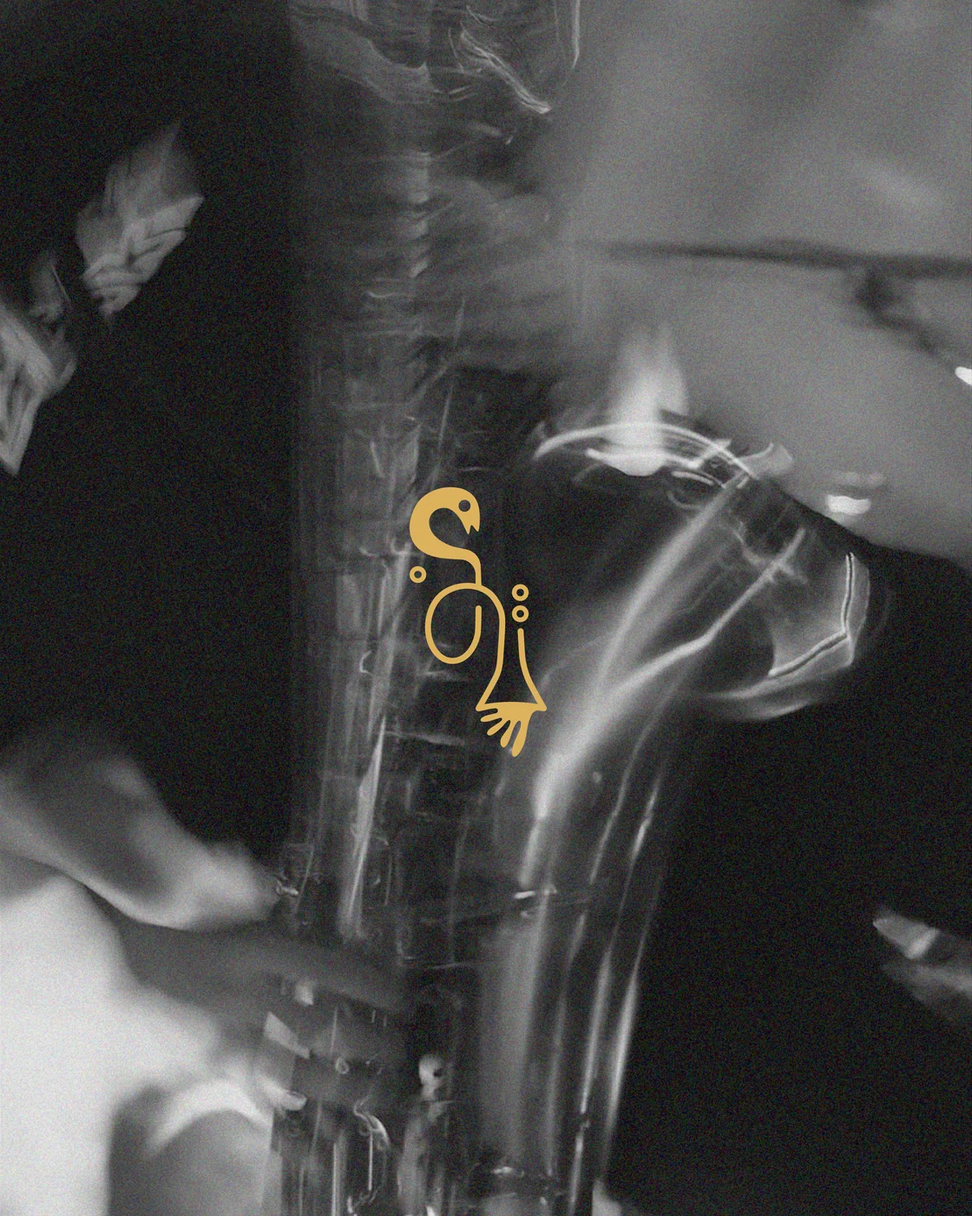
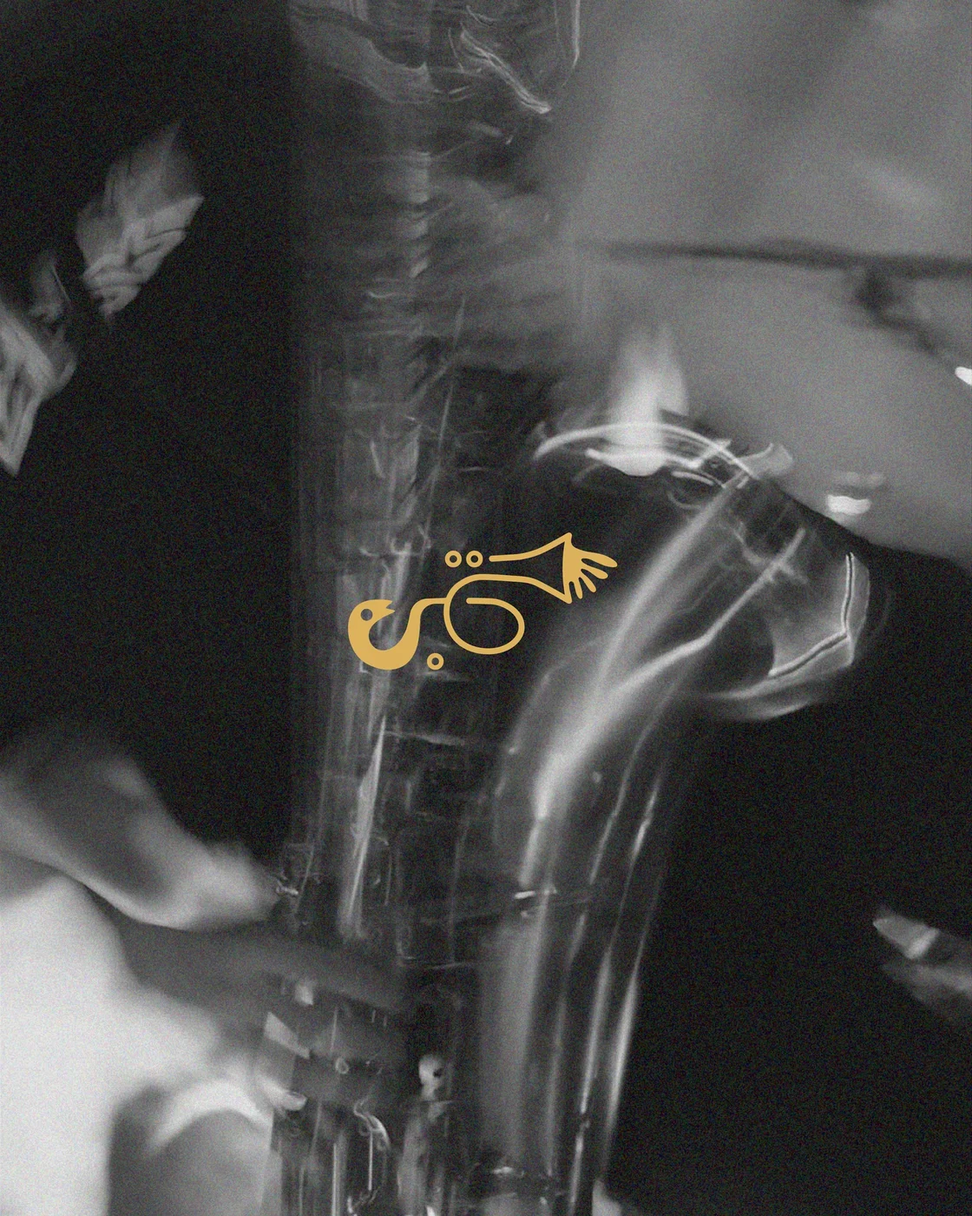
update

Changed region(s): [[0.3438, 0.3993, 0.625, 0.6143]]

diff --git a/work/adjuah.html b/work/adjuah.html
@@ -8,7 +8,7 @@
   <link rel="apple-touch-icon" href="../assets/img/apple-touch-icon.png">
   <title>Chief Adjuah — Lucía Tapia</title>
   <meta name="description" content="Chief Xian aTunde Adjuah, formerly known as Christian Scott, is a New Orleans trumpeter, composer and instrument designer. He builds his own instrumen">
-  <link rel="stylesheet" href="../assets/css/style.css?v=11031700">
+  <link rel="stylesheet" href="../assets/css/style.css?v=11042000">
 </head>
 <body class="page-project">
 
@@ -22,17 +22,27 @@
     </nav>
   </header>
 
-  <main class="pj" id="top">
+  <main class="pj pj--tight" id="top">
     <div class="pj__sheet">
-    <section class="pj__cover"><figure class="pj__frame pj__frame--cover "><img src="../assets/img/work/adjuah/cover.webp?v=10051010" alt="" width="1920" height="2400" loading="lazy"></figure></section>
+    <section class="pj__cover"><figure class="pj__frame pj__frame--cover "><img src="../assets/img/work/adjuah/hero-image.webp?v=11041200" alt="" width="2400" height="1500" loading="lazy"></figure></section>
     <header class="pj__head"><a class="pj__arrow" href="../work.html" aria-label="Back to all work">←</a><div><h1 class="pj__title">Chief Adjuah</h1><p class="pj__one">A self-initiated identity concept for jazz artist Christian Scott aTunde Adjuah.</p></div></header>
-    <section class="pj__row pj__row--pair pj__row--text"><div class="pj__intro"><div class="pj__lead"><p>Chief Xian aTunde Adjuah, formerly known as Christian Scott, is a New Orleans trumpeter, composer and instrument designer. He builds his own instruments, coined the term Stretch Music for his genre-blind fusion of jazz, trap and West African rhythm, and is a hereditary Big Chief of the Xodokan Nation, one of New Orleans’ Black Masking Indian traditions.</p><p>His work is both ancestral and futuristic. This is a self-initiated identity concept, an exercise in translating such an interesting personality into a complete visual system. It isn’t client work.</p></div><div class="pj__meta"><div class="pj__meta-col pj__meta-col--name"><p>Chief Adjuah</p><p>2026 · Spec work</p></div><div class="pj__meta-col"><p class="pj__meta-k">Role</p><p class="pj__meta-v">Branding &amp; design</p></div><div class="pj__meta-col"><p class="pj__meta-k">Deliverables</p><p class="pj__meta-v">Wordmark<br>Custom type<br>Pattern<br>Applications</p></div></div></div><figure class="pj__frame pj__frame--cover "><img src="../assets/img/work/adjuah/poster.webp?v=10051010" alt="" width="1010" height="1242" loading="lazy"></figure></section>
+    <section class="pj__row pj__row--pair pj__row--text"><div class="pj__intro"><div class="pj__lead"><p>Chief Xian aTunde Adjuah, formerly known as Christian Scott, is a New Orleans trumpeter, composer and instrument designer. He builds his own instruments, coined the term Stretch Music for his genre-blind fusion of jazz, trap and West African rhythm, and is a hereditary Big Chief of the Xodokan Nation, one of New Orleans’ Black Masking Indian traditions.</p><p>His work is both ancestral and futuristic. This is a self-initiated identity concept, an exercise in translating such an interesting personality into a complete visual system. It isn’t client work.</p></div><div class="pj__meta"><div class="pj__meta-col pj__meta-col--name"><p>Chief Adjuah</p><p>2026 · Spec work</p></div><div class="pj__meta-col"><p class="pj__meta-k">Role</p><p class="pj__meta-v">Branding &amp; design</p></div><div class="pj__meta-col"><p class="pj__meta-k">Deliverables</p><p class="pj__meta-v">Wordmark<br>Custom type<br>Pattern<br>Applications</p></div></div></div><figure class="pj__frame pj__frame--cover cut " data-cut data-interval="1600" style="aspect-ratio:4/5"><img class="cut__slide is-on" src="../assets/img/work/adjuah/carrousel-1.webp?v=11041200" alt="" width="1600" height="2000" loading="lazy"><img class="cut__slide" src="../assets/img/work/adjuah/carrousel-2.webp?v=11041200" alt="" width="1600" height="2000" loading="lazy"><img class="cut__slide" src="../assets/img/work/adjuah/carrousel-3.webp?v=11041200" alt="" width="1600" height="2000" loading="lazy"></figure></section>
     <section class="pj__row pj__txt"><h2 class="pj__label">Insight</h2><div class="pj__body"><p>Chief Adjuah doesn’t preserve tradition, he reinvents it by combining things: trap layered over West African percussion, ceremonial suits built from thousands of beads added by hand over a year. His whole practice is fragments, assembled with intent. Once I learned this, I understood the identity had to work the same way: not one single thing, but a system built from parts, each carrying meaning of its own.</p></div></section>
+    <section class="pj__row adj__fig adj__fig--small"><img src="../assets/img/work/adjuah/color-palette.webp?v=11041700" alt="" width="1665" height="996" loading="lazy"></section>
+    <section class="pj__row pj__row--full"><figure class="pj__frame pj__frame--cover " style="aspect-ratio:2400/1500"><img src="../assets/img/work/adjuah/type.webp?v=11041200" alt="" width="2400" height="1500" loading="lazy"></figure></section>
     <section class="pj__row pj__txt"><h2 class="pj__label">The mark</h2><div class="pj__body"><p>The wordmark evolved in three passes. The first began with the Adjuah trumpet, the horn he designed, abstracted into the J. The second folded his initials, C and A, into the letterforms. The final version introduced the Sankofa bird, the West African symbol of moving forward while looking back, as a central medallion. The custom type adds small notches inspired by Adinkra symbols.</p></div></section>
+    <section class="pj__row adj__fig adj__fig--mid"><img src="../assets/img/work/adjuah/logo-description.webp?v=11041700" alt="" width="2082" height="877" loading="lazy"></section>
+    <section class="pj__row pj__row--pair"><figure class="pj__frame pj__frame--cover " style="aspect-ratio:4/5"><img src="../assets/img/work/adjuah/logo-design-1.webp?v=11041200" alt="" width="1600" height="2000" loading="lazy"></figure><figure class="pj__frame pj__frame--cover " style="aspect-ratio:4/5"><img src="../assets/img/work/adjuah/logo-design-2.webp?v=11041200" alt="" width="1600" height="2000" loading="lazy"></figure></section>
+    <section class="pj__row pj__row--full"><figure class="pj__frame pj__frame--cover " style="aspect-ratio:2400/1500"><img src="../assets/img/work/adjuah/logo-design-4.webp?v=11041200" alt="" width="2400" height="1500" loading="lazy"></figure></section>
     <section class="pj__row pj__txt"><h2 class="pj__label">The pattern</h2><div class="pj__body"><p>The pattern extends the wordmark into a wider visual alphabet, inspired by Adinkra and by the pictorial patches of Black Masking Indian regalia. It works like textile does in his world: repeatable, hand-feeling, and carrying meaning even when read as texture.</p></div></section>
-    <section class="pj__row pj__txt"><h2 class="pj__label"></h2><div class="pj__body"><p class="pj__soon">More images coming soon.</p></div></section>
+    <section class="pj__row pj__row--full"><figure class="pj__frame pj__frame--cover " style="aspect-ratio:2400/1500"><img src="../assets/img/work/adjuah/pattern-2.webp?v=11041200" alt="" width="2400" height="1500" loading="lazy"></figure></section>
+    <section class="pj__row pj__row--pair"><figure class="pj__frame pj__frame--contain " style="--bg:transparent;--pad:6%;aspect-ratio:4/5"><img src="../assets/img/work/adjuah/pattern.webp?v=11041200" alt="" width="1473" height="2000" loading="lazy"></figure><figure class="pj__frame pj__frame--cover " style="aspect-ratio:4/5"><img src="../assets/img/work/adjuah/poster-5.webp?v=11041200" alt="" width="1600" height="2000" loading="lazy"></figure></section>
+    <section class="pj__row adj__duo"><img src="../assets/img/work/adjuah/cover-art.webp?v=11041700" alt="" width="1332" height="1947" loading="lazy"><img src="../assets/img/work/adjuah/ticket-design.webp?v=11041700" alt="" width="1048" height="1708" loading="lazy"></section>
+    <section class="pj__row pj__row--pair"><figure class="pj__frame pj__frame--cover " style="aspect-ratio:4/5"><img src="../assets/img/work/adjuah/poster-2.webp?v=11041200" alt="" width="1600" height="2000" loading="lazy"></figure><figure class="pj__frame pj__frame--cover " style="aspect-ratio:4/5"><img src="../assets/img/work/adjuah/poster-1.webp?v=11041200" alt="" width="1600" height="2000" loading="lazy"></figure></section>
+    <section class="pj__row pj__row--pair"><figure class="pj__frame pj__frame--cover " style="aspect-ratio:4/5"><img src="../assets/img/work/adjuah/poster-3.webp?v=11041200" alt="" width="1600" height="2000" loading="lazy"></figure><figure class="pj__frame pj__frame--cover " style="aspect-ratio:4/5"><img src="../assets/img/work/adjuah/poster-4.webp?v=11041200" alt="" width="1600" height="2000" loading="lazy"></figure></section>
+    <section class="pj__row pj__row--pair"><figure class="pj__frame pj__frame--cover " style="aspect-ratio:4/5"><img src="../assets/img/work/adjuah/poster-7.webp?v=11041200" alt="" width="1600" height="2000" loading="lazy"></figure><figure class="pj__frame pj__frame--cover " style="aspect-ratio:4/5"><img src="../assets/img/work/adjuah/poster-6.webp?v=11041200" alt="" width="1600" height="2000" loading="lazy"></figure></section>
     </div>
-    <section class="pj__end"><a class="pj__next" href="personal-brand.html"><span class="pj__next-k">Next project</span><span class="pj__next-v">Personal Brand →</span></a><div class="pj__more"><a class="pj__more-card" href="personal-brand.html"><figure><img src="../assets/img/work/personal-brand.webp" alt="" loading="lazy"></figure><p>Personal Brand</p></a><a class="pj__more-card" href="givenchy.html"><figure><img src="../assets/img/work/givenchy.webp" alt="" loading="lazy"></figure><p>Givenchy Archives</p></a><a class="pj__more-card" href="admundi.html"><figure><img src="../assets/img/work/admundi.webp" alt="" loading="lazy"></figure><p>Admundi</p></a><a class="pj__more-card" href="el-herrete.html"><figure><img src="../assets/img/work/el-herrete.webp" alt="" loading="lazy"></figure><p>El Herrete</p></a></div><a class="pj__back" href="../work.html">← All work</a></section>
+    <section class="pj__end"><a class="pj__next" href="plum-panda.html"><span class="pj__next-k">Next project</span><span class="pj__next-v">Plum Panda →</span></a><div class="pj__more"><a class="pj__more-card" href="plum-panda.html"><figure><img src="../assets/img/work/plum-panda.webp" alt="" loading="lazy"></figure><p>Plum Panda</p></a><a class="pj__more-card" href="personal-brand.html"><figure><img src="../assets/img/work/personal-brand.webp" alt="" loading="lazy"></figure><p>Personal Brand</p></a><a class="pj__more-card" href="givenchy.html"><figure><img src="../assets/img/work/givenchy.webp" alt="" loading="lazy"></figure><p>Givenchy Archives</p></a><a class="pj__more-card" href="admundi.html"><figure><img src="../assets/img/work/admundi.webp" alt="" loading="lazy"></figure><p>Admundi</p></a></div><a class="pj__back" href="../work.html">← All work</a></section>
   </main>
 
 
@@ -46,6 +56,6 @@
     <button type="button" class="to-top" data-to-top aria-label="Back to top"><span aria-hidden="true">↑</span> <span data-i18n="footer.top">top</span></button>
   </footer>
 
-  <script src="../assets/js/main.js?v=11031700"></script>
+  <script src="../assets/js/main.js?v=11042000"></script>
 </body>
 </html>

diff --git a/work.html b/work.html
@@ -10,7 +10,7 @@
   <meta name="description" content="Portfolio of Lucía Tapia García, a creative based in Boston working across branding, advertising, illustration and editorial design.">
   <link rel="preload" href="assets/fonts/zt-bros-oskon.woff2" as="font" type="font/woff2" crossorigin>
   <link rel="preload" href="assets/fonts/aston-script.woff2" as="font" type="font/woff2" crossorigin>
-  <link rel="stylesheet" href="assets/css/style.css?v=11031700">
+  <link rel="stylesheet" href="assets/css/style.css?v=11042000">
 </head>
 <body class="page-work">
 
@@ -63,10 +63,22 @@
           </a>
         </li>
         <li class="card" data-cat="branding">
+          <a class="card__link" href="work/adjuah.html">
+            <figure class="card__media"><img src="assets/img/work/adjuah.webp?v=1104" alt="Chief Adjuah" width="1120" height="1400" loading="lazy"></figure>
+            <div class="card__cap">
+              <p class="card__title"><span class="card__num">02</span> Chief Adjuah</p>
+              <p class="card__year">2026</p>
+              <p class="card__cat" data-i18n="cat.branding">Branding</p>
+              <p class="card__desc" data-i18n="desc.adjuah">Identity concept, Spec work</p>
+              <span class="card__view" aria-hidden="true">→ <span data-i18n="work.view">View</span></span>
+            </div>
+          </a>
+        </li>
+        <li class="card" data-cat="branding">
           <a class="card__link" href="work/plum-panda.html">
             <figure class="card__media"><img src="assets/img/work/plum-panda.webp" alt="Plum Panda" width="1120" height="1400" loading="lazy"></figure>
             <div class="card__cap">
-              <p class="card__title"><span class="card__num">02</span> Plum Panda</p>
+              <p class="card__title"><span class="card__num">03</span> Plum Panda</p>
               <p class="card__year">2026</p>
               <p class="card__cat" data-i18n="cat.branding">Branding</p>
               <p class="card__desc" data-i18n="desc.plum-panda">Visual identity</p>
@@ -78,7 +90,7 @@
           <a class="card__link" href="work/personal-brand.html">
             <figure class="card__media"><img src="assets/img/work/personal-brand.webp" alt="Personal Brand" width="1120" height="1400" loading="lazy"></figure>
             <div class="card__cap">
-              <p class="card__title"><span class="card__num">03</span> Personal Brand</p>
+              <p class="card__title"><span class="card__num">04</span> Personal Brand</p>
               <p class="card__year">2026</p>
               <p class="card__cat" data-i18n="cat.branding">Branding</p>
               <p class="card__desc" data-i18n="desc.personal-brand">Visual identity, Brand &amp; Content strategy</p>
@@ -90,7 +102,7 @@
           <a class="card__link" href="work/givenchy.html">
             <figure class="card__media"><img src="assets/img/work/givenchy.webp" alt="Givenchy Archives" width="926" height="1400" loading="eager"></figure>
             <div class="card__cap">
-              <p class="card__title"><span class="card__num">04</span> Givenchy Archives</p>
+              <p class="card__title"><span class="card__num">05</span> Givenchy Archives</p>
               <p class="card__year">2025</p>
               <p class="card__cat" data-i18n="cat.illustration">Illustration</p>
               <p class="card__desc" data-i18n="desc.givenchy">Fashion illustration study</p>
@@ -102,7 +114,7 @@
           <a class="card__link" href="work/admundi.html">
             <figure class="card__media"><img src="assets/img/work/admundi.webp" alt="Admundi" width="1400" height="984" loading="lazy"></figure>
             <div class="card__cap">
-              <p class="card__title"><span class="card__num">05</span> Admundi</p>
+              <p class="card__title"><span class="card__num">06</span> Admundi</p>
               <p class="card__year">2025</p>
               <p class="card__cat" data-i18n="cat.campaign">Campaign</p>
               <p class="card__desc" data-i18n="desc.admundi">Campaign ideation, Strategy, Design</p>
@@ -114,7 +126,7 @@
           <a class="card__link" href="work/el-herrete.html">
             <figure class="card__media"><img src="assets/img/work/el-herrete.webp?v=1001" alt="El Herrete" width="933" height="1400" loading="eager"></figure>
             <div class="card__cap">
-              <p class="card__title"><span class="card__num">06</span> El Herrete</p>
+              <p class="card__title"><span class="card__num">07</span> El Herrete</p>
               <p class="card__year">2025</p>
               <p class="card__cat" data-i18n="cat.branding">Branding</p>
               <p class="card__desc" data-i18n="desc.el-herrete">Visual identity, Illustration & Motion graphics</p>
@@ -126,7 +138,7 @@
           <a class="card__link" href="work/eight-movements.html">
             <figure class="card__media"><img src="assets/img/work/eight-movements.webp" alt="Interpretation of Forms" width="1080" height="1350" loading="lazy"></figure>
             <div class="card__cap">
-              <p class="card__title"><span class="card__num">07</span> Interpretation of Forms</p>
+              <p class="card__title"><span class="card__num">08</span> Interpretation of Forms</p>
               <p class="card__year">2025</p>
               <p class="card__cat" data-i18n="cat.illustration">Illustration</p>
               <p class="card__desc" data-i18n="desc.eight-movements">Fashion design &amp; illustration</p>
@@ -138,25 +150,13 @@
           <a class="card__link" href="work/draper.html">
             <figure class="card__media"><img src="assets/img/work/draper.webp" alt="Divina Gravità" width="500" height="591" loading="eager"></figure>
             <div class="card__cap">
-              <p class="card__title"><span class="card__num">08</span> Divina Gravità</p>
+              <p class="card__title"><span class="card__num">09</span> Divina Gravità</p>
               <p class="card__year">2025</p>
               <p class="card__cat" data-i18n="cat.illustration">Illustration</p>
               <p class="card__desc" data-i18n="desc.draper">Fashion capsule & illustration</p>
               <span class="card__view" aria-hidden="true">→ <span data-i18n="work.view">View</span></span>
             </div>
           </a>
-        </li>
-        <li class="card card--soon" data-cat="branding">
-          <div class="card__link" aria-disabled="true">
-            <figure class="card__media"><span class="card__soon" data-i18n="work.soon">Coming soon</span><img src="assets/img/work/adjuah.webp" alt="Chief Adjuah" width="1120" height="1400" loading="eager"></figure>
-            <div class="card__cap">
-              <p class="card__title"><span class="card__num">09</span> Chief Adjuah</p>
-              <p class="card__year">2026</p>
-              <p class="card__cat" data-i18n="cat.branding">Branding</p>
-              <p class="card__desc" data-i18n="desc.adjuah">Identity concept, Spec work</p>
-              <span class="card__view card__view--soon" aria-hidden="true" data-i18n="work.soon">Coming soon</span>
-            </div>
-          </div>
         </li>
     </ul>
   </main>
@@ -171,6 +171,6 @@
     <button type="button" class="to-top" data-to-top aria-label="Back to top"><span aria-hidden="true">↑</span> <span data-i18n="footer.top">top</span></button>
   </footer>
 
-  <script src="assets/js/main.js?v=11031700"></script>
+  <script src="assets/js/main.js?v=11042000"></script>
 </body>
 </html>

diff --git a/work/draper.html b/work/draper.html
@@ -8,7 +8,7 @@
   <link rel="apple-touch-icon" href="../assets/img/apple-touch-icon.png">
   <title>Divina Gravità — Lucía Tapia</title>
   <meta name="description" content="Divina Gravità is a mythological capsule collection inspired by Herbert Draper’s The Lament for Icarus (1898). It explores the space between rising an">
-  <link rel="stylesheet" href="../assets/css/style.css?v=11031700">
+  <link rel="stylesheet" href="../assets/css/style.css?v=11042000">
 </head>
 <body class="page-project">
 
@@ -39,7 +39,7 @@
     <section class="pj__row pj__row--full"><figure class="pj__frame pj__frame--cover " style="aspect-ratio:2600/1817" data-zoom><img src="../assets/img/work/draper/final.webp?v=10051010" alt="" width="2600" height="1817" loading="lazy" data-full="../assets/img/work/draper/final-full.webp?v=10051010"></figure></section>
     <section class="pj__row pj__gallery pj__gallery--3"><figure class="pj__frame pj__frame--cover " data-zoom><img src="../assets/img/work/draper/final-1.webp?v=10051010" alt="" width="1000" height="1102" loading="lazy"></figure><figure class="pj__frame pj__frame--cover " data-zoom><img src="../assets/img/work/draper/final-2.webp?v=10051010" alt="" width="1000" height="1102" loading="lazy"></figure><figure class="pj__frame pj__frame--cover " data-zoom><img src="../assets/img/work/draper/final-3.webp?v=10051010" alt="" width="1000" height="1102" loading="lazy"></figure></section>
     </div>
-    <section class="pj__end"><a class="pj__next" href="ai-image-generation.html"><span class="pj__next-k">Next project</span><span class="pj__next-v">AI Image Generation →</span></a><div class="pj__more"><a class="pj__more-card" href="ai-image-generation.html"><figure><img src="../assets/img/work/ai-image-generation.webp" alt="" loading="lazy"></figure><p>AI Image Generation</p></a><a class="pj__more-card" href="plum-panda.html"><figure><img src="../assets/img/work/plum-panda.webp" alt="" loading="lazy"></figure><p>Plum Panda</p></a><a class="pj__more-card" href="personal-brand.html"><figure><img src="../assets/img/work/personal-brand.webp" alt="" loading="lazy"></figure><p>Personal Brand</p></a><a class="pj__more-card" href="givenchy.html"><figure><img src="../assets/img/work/givenchy.webp" alt="" loading="lazy"></figure><p>Givenchy Archives</p></a></div><a class="pj__back" href="../work.html">← All work</a></section>
+    <section class="pj__end"><a class="pj__next" href="ai-image-generation.html"><span class="pj__next-k">Next project</span><span class="pj__next-v">AI Image Generation →</span></a><div class="pj__more"><a class="pj__more-card" href="ai-image-generation.html"><figure><img src="../assets/img/work/ai-image-generation.webp" alt="" loading="lazy"></figure><p>AI Image Generation</p></a><a class="pj__more-card" href="adjuah.html"><figure><img src="../assets/img/work/adjuah.webp" alt="" loading="lazy"></figure><p>Chief Adjuah</p></a><a class="pj__more-card" href="plum-panda.html"><figure><img src="../assets/img/work/plum-panda.webp" alt="" loading="lazy"></figure><p>Plum Panda</p></a><a class="pj__more-card" href="personal-brand.html"><figure><img src="../assets/img/work/personal-brand.webp" alt="" loading="lazy"></figure><p>Personal Brand</p></a></div><a class="pj__back" href="../work.html">← All work</a></section>
   </main>
   <div class="lightbox" data-lightbox hidden role="dialog" aria-modal="true" aria-label="Image viewer">
     <button type="button" class="lb__close" data-lb-close><span data-i18n="lb.close">Close</span> ×</button>
@@ -60,6 +60,6 @@
     <button type="button" class="to-top" data-to-top aria-label="Back to top"><span aria-hidden="true">↑</span> <span data-i18n="footer.top">top</span></button>
   </footer>
 
-  <script src="../assets/js/main.js?v=11031700"></script>
+  <script src="../assets/js/main.js?v=11042000"></script>
 </body>
 </html>

diff --git a/work/ai-image-generation.html b/work/ai-image-generation.html
@@ -8,7 +8,7 @@
   <link rel="apple-touch-icon" href="../assets/img/apple-touch-icon.png">
   <title>AI Image Generation — Lucía Tapia</title>
   <meta name="description" content="A library of AI image generation projects: spec work and experiments in art direction.">
-  <link rel="stylesheet" href="../assets/css/style.css?v=11031700">
+  <link rel="stylesheet" href="../assets/css/style.css?v=11042000">
 </head>
 <body class="page-project">
 
@@ -43,7 +43,7 @@
     </div><p class="deck__count" data-deck-count>01 / 14</p></section>
     </article>
     </div>
-    <section class="pj__end"><a class="pj__next" href="plum-panda.html"><span class="pj__next-k">Next project</span><span class="pj__next-v">Plum Panda →</span></a><div class="pj__more"><a class="pj__more-card" href="plum-panda.html"><figure><img src="../assets/img/work/plum-panda.webp" alt="" loading="lazy"></figure><p>Plum Panda</p></a><a class="pj__more-card" href="personal-brand.html"><figure><img src="../assets/img/work/personal-brand.webp" alt="" loading="lazy"></figure><p>Personal Brand</p></a><a class="pj__more-card" href="givenchy.html"><figure><img src="../assets/img/work/givenchy.webp" alt="" loading="lazy"></figure><p>Givenchy Archives</p></a><a class="pj__more-card" href="admundi.html"><figure><img src="../assets/img/work/admundi.webp" alt="" loading="lazy"></figure><p>Admundi</p></a></div><a class="pj__back" href="../work.html">← All work</a></section>
+    <section class="pj__end"><a class="pj__next" href="adjuah.html"><span class="pj__next-k">Next project</span><span class="pj__next-v">Chief Adjuah →</span></a><div class="pj__more"><a class="pj__more-card" href="adjuah.html"><figure><img src="../assets/img/work/adjuah.webp" alt="" loading="lazy"></figure><p>Chief Adjuah</p></a><a class="pj__more-card" href="plum-panda.html"><figure><img src="../assets/img/work/plum-panda.webp" alt="" loading="lazy"></figure><p>Plum Panda</p></a><a class="pj__more-card" href="personal-brand.html"><figure><img src="../assets/img/work/personal-brand.webp" alt="" loading="lazy"></figure><p>Personal Brand</p></a><a class="pj__more-card" href="givenchy.html"><figure><img src="../assets/img/work/givenchy.webp" alt="" loading="lazy"></figure><p>Givenchy Archives</p></a></div><a class="pj__back" href="../work.html">← All work</a></section>
   </main>
   <div class="lightbox" data-lightbox hidden role="dialog" aria-modal="true" aria-label="Image viewer">
     <button type="button" class="lb__close" data-lb-close><span data-i18n="lb.close">Close</span> ×</button>
@@ -65,6 +65,6 @@
     <button type="button" class="to-top" data-to-top aria-label="Back to top"><span aria-hidden="true">↑</span> <span data-i18n="footer.top">top</span></button>
   </footer>
 
-  <script src="../assets/js/main.js?v=11031700"></script>
+  <script src="../assets/js/main.js?v=11042000"></script>
 </body>
 </html>

diff --git a/assets/css/style.css b/assets/css/style.css
@@ -1108,3 +1108,30 @@ body { background-image: none; }
 @media (max-width: 700px) { .page-home .to-top { left: auto; right: var(--gutter); transform: none; } }
 /* the bike now lives in the footer itself, so it always rests on the green line */
 .page-home .footer .ticker__bike { position: absolute; top: auto; bottom: calc(100% - 3px); left: var(--gutter); right: auto; z-index: 5; }
+
+/* Chief Adjuah: tighter rhythm, smaller palette and logo explanation */
+.pj--tight .pj__txt { padding-block: clamp(28px, 3.4vw, 48px); }
+.pj--tight .pj__row--text + .pj__txt { padding-top: clamp(16px, 2vw, 28px); }
+.pj--tight .pj__intro { padding-bottom: clamp(16px, 2vw, 30px); }
+.adj__fig { display: flex; justify-content: center; padding: clamp(6px, 1vw, 14px) var(--side) clamp(18px, 2.4vw, 34px); }
+.adj__fig img { display: block; height: auto; }
+.adj__fig--small img { width: min(46%, 520px); }
+.adj__fig--mid img { width: min(68%, 820px); }
+@media (max-width: 760px) { .adj__fig--small img { width: 78%; } .adj__fig--mid img { width: 100%; } }
+/* Chief Adjuah: even gaps above and below the smaller pieces */
+.pj--tight .pj__txt { padding-bottom: clamp(14px, 1.6vw, 22px); margin-bottom: 0; }
+.pj--tight .pj__txt .pj__body p:last-child { margin-bottom: 0; }
+.adj__fig { padding-top: 0; padding-bottom: clamp(30px, 3.4vw, 48px); margin-bottom: 0; }
+.adj__duo { display: grid; grid-template-columns: 1fr 1fr; align-items: center; justify-items: center; padding: clamp(30px, 3.4vw, 48px) var(--side); }
+.adj__duo img { display: block; height: auto; max-height: min(78vh, 760px); width: auto; max-width: 82%; }
+@media (max-width: 760px) { .adj__duo { grid-template-columns: 1fr; row-gap: 28px; } .adj__duo img { max-width: 86%; max-height: none; } }
+.adj__fig { padding-top: clamp(14px, 1.6vw, 20px); padding-bottom: clamp(14px, 1.6vw, 20px); }
+.adj__fig + .pj__row { margin-top: 0; }
+.adj__duo { padding-block: clamp(14px, 1.6vw, 20px); }
+.adj__fig { padding-bottom: clamp(22px, 2.4vw, 30px); }
+/* Chief Adjuah: equal space above and below everything (≈ the paragraph's top margin) */
+.pj--tight .pj__txt { padding-bottom: clamp(28px, 3.4vw, 48px); }
+.adj__fig { padding-top: 0; padding-bottom: clamp(8px, 1.4vw, 28px); }
+.adj__duo { padding-block: clamp(8px, 1.4vw, 28px); }
+.pj--tight .pj__txt { padding-bottom: calc(clamp(28px, 3.4vw, 48px) + var(--g)); }
+.adj__fig { padding-bottom: calc(clamp(28px, 3.4vw, 48px) + var(--g)); }

diff --git a/about.html b/about.html
@@ -10,7 +10,7 @@
   <meta name="description" content="Lucía Tapia García, a creative raised between Spain and the US and based in Boston, working across branding, editorial design, illustration and campaigns.">
   <link rel="preload" href="assets/fonts/zt-bros-oskon.woff2" as="font" type="font/woff2" crossorigin>
   <link rel="preload" href="assets/fonts/aston-script.woff2" as="font" type="font/woff2" crossorigin>
-  <link rel="stylesheet" href="assets/css/style.css?v=11031700">
+  <link rel="stylesheet" href="assets/css/style.css?v=11042000">
 </head>
 <body class="page-about">
 
@@ -98,6 +98,6 @@
     <button type="button" class="to-top" data-to-top aria-label="Back to top"><span aria-hidden="true">↑</span> <span data-i18n="footer.top">top</span></button>
   </footer>
 
-  <script src="assets/js/main.js?v=11031700"></script>
+  <script src="assets/js/main.js?v=11042000"></script>
 </body>
 </html>

diff --git a/contact.html b/contact.html
@@ -10,7 +10,7 @@
   <meta name="description" content="Get in touch with Lucía Tapia García, a creative based in Boston working across branding, advertising, illustration and art direction.">
   <link rel="preload" href="assets/fonts/zt-bros-oskon.woff2" as="font" type="font/woff2" crossorigin>
   <link rel="preload" href="assets/fonts/aston-script.woff2" as="font" type="font/woff2" crossorigin>
-  <link rel="stylesheet" href="assets/css/style.css?v=11031700">
+  <link rel="stylesheet" href="assets/css/style.css?v=11042000">
 </head>
 <body class="page-contact">
 
@@ -76,6 +76,6 @@
     <button type="button" class="to-top" data-to-top aria-label="Back to top"><span aria-hidden="true">↑</span> <span data-i18n="footer.top">top</span></button>
   </footer>
 
-  <script src="assets/js/main.js?v=11031700"></script>
+  <script src="assets/js/main.js?v=11042000"></script>
 </body>
 </html>

diff --git a/archive.html b/archive.html
@@ -10,7 +10,7 @@
   <meta name="description" content="Portfolio of Lucía Tapia García, a creative based in Boston working across branding, advertising, illustration and editorial design.">
   <link rel="preload" href="assets/fonts/zt-bros-oskon.woff2" as="font" type="font/woff2" crossorigin>
   <link rel="preload" href="assets/fonts/aston-script.woff2" as="font" type="font/woff2" crossorigin>
-  <link rel="stylesheet" href="assets/css/style.css?v=11031700">
+  <link rel="stylesheet" href="assets/css/style.css?v=11042000">
 </head>
 <body class="page-archive">
 
@@ -97,6 +97,6 @@
     <button type="button" class="to-top" data-to-top aria-label="Back to top"><span aria-hidden="true">↑</span> <span data-i18n="footer.top">top</span></button>
   </footer>
 
-  <script src="assets/js/main.js?v=11031700"></script>
+  <script src="assets/js/main.js?v=11042000"></script>
 </body>
 </html>

diff --git a/work/eight-movements.html b/work/eight-movements.html
@@ -8,7 +8,7 @@
   <link rel="apple-touch-icon" href="../assets/img/apple-touch-icon.png">
   <title>Interpretation of Forms — Lucía Tapia</title>
   <meta name="description" content="This series explores the intersection of fine art and fashion design through six distinct artistic approaches: imitation, accentuation, deconstruction">
-  <link rel="stylesheet" href="../assets/css/style.css?v=11031700">
+  <link rel="stylesheet" href="../assets/css/style.css?v=11042000">
 </head>
 <body class="page-project">
 
@@ -68,6 +68,6 @@
     <button type="button" class="to-top" data-to-top aria-label="Back to top"><span aria-hidden="true">↑</span> <span data-i18n="footer.top">top</span></button>
   </footer>
 
-  <script src="../assets/js/main.js?v=11031700"></script>
+  <script src="../assets/js/main.js?v=11042000"></script>
 </body>
 </html>

diff --git a/work/personal-brand.html b/work/personal-brand.html
@@ -8,7 +8,7 @@
   <link rel="apple-touch-icon" href="../assets/img/apple-touch-icon.png">
   <title>Personal Brand — Lucía Tapia</title>
   <meta name="description" content="For my degree thesis, I explored personal branding for artists: why it matters, and how a cohesive visual world can communicate an artist’s identity a">
-  <link rel="stylesheet" href="../assets/css/style.css?v=11031700">
+  <link rel="stylesheet" href="../assets/css/style.css?v=11042000">
 </head>
 <body class="page-project">
 
@@ -55,6 +55,6 @@
     <button type="button" class="to-top" data-to-top aria-label="Back to top"><span aria-hidden="true">↑</span> <span data-i18n="footer.top">top</span></button>
   </footer>
 
-  <script src="../assets/js/main.js?v=11031700"></script>
+  <script src="../assets/js/main.js?v=11042000"></script>
 </body>
 </html>

diff --git a/work/el-herrete.html b/work/el-herrete.html
@@ -8,7 +8,7 @@
   <link rel="apple-touch-icon" href="../assets/img/apple-touch-icon.png">
   <title>El Herrete — Lucía Tapia</title>
   <meta name="description" content="El Herrete is an independent creative agency built on a clear conviction: brands shouldn’t just communicate more, but communicate better, with intenti">
-  <link rel="stylesheet" href="../assets/css/style.css?v=11031700">
+  <link rel="stylesheet" href="../assets/css/style.css?v=11042000">
 </head>
 <body class="page-project">
 
@@ -50,6 +50,6 @@
     <button type="button" class="to-top" data-to-top aria-label="Back to top"><span aria-hidden="true">↑</span> <span data-i18n="footer.top">top</span></button>
   </footer>
 
-  <script src="../assets/js/main.js?v=11031700"></script>
+  <script src="../assets/js/main.js?v=11042000"></script>
 </body>
 </html>

diff --git a/work/plum-panda.html b/work/plum-panda.html
@@ -8,7 +8,7 @@
   <link rel="apple-touch-icon" href="../assets/img/apple-touch-icon.png">
   <title>Plum Panda — Lucía Tapia</title>
   <meta name="description" content="The challenge was to build a brand for a friend’s new yoga and movement label, one that feels as calm and peaceful as the practice itself. Plum Panda ">
-  <link rel="stylesheet" href="../assets/css/style.css?v=11031700">
+  <link rel="stylesheet" href="../assets/css/style.css?v=11042000">
 </head>
 <body class="page-project">
 
@@ -55,6 +55,6 @@
     <button type="button" class="to-top" data-to-top aria-label="Back to top"><span aria-hidden="true">↑</span> <span data-i18n="footer.top">top</span></button>
   </footer>
 
-  <script src="../assets/js/main.js?v=11031700"></script>
+  <script src="../assets/js/main.js?v=11042000"></script>
 </body>
 </html>
